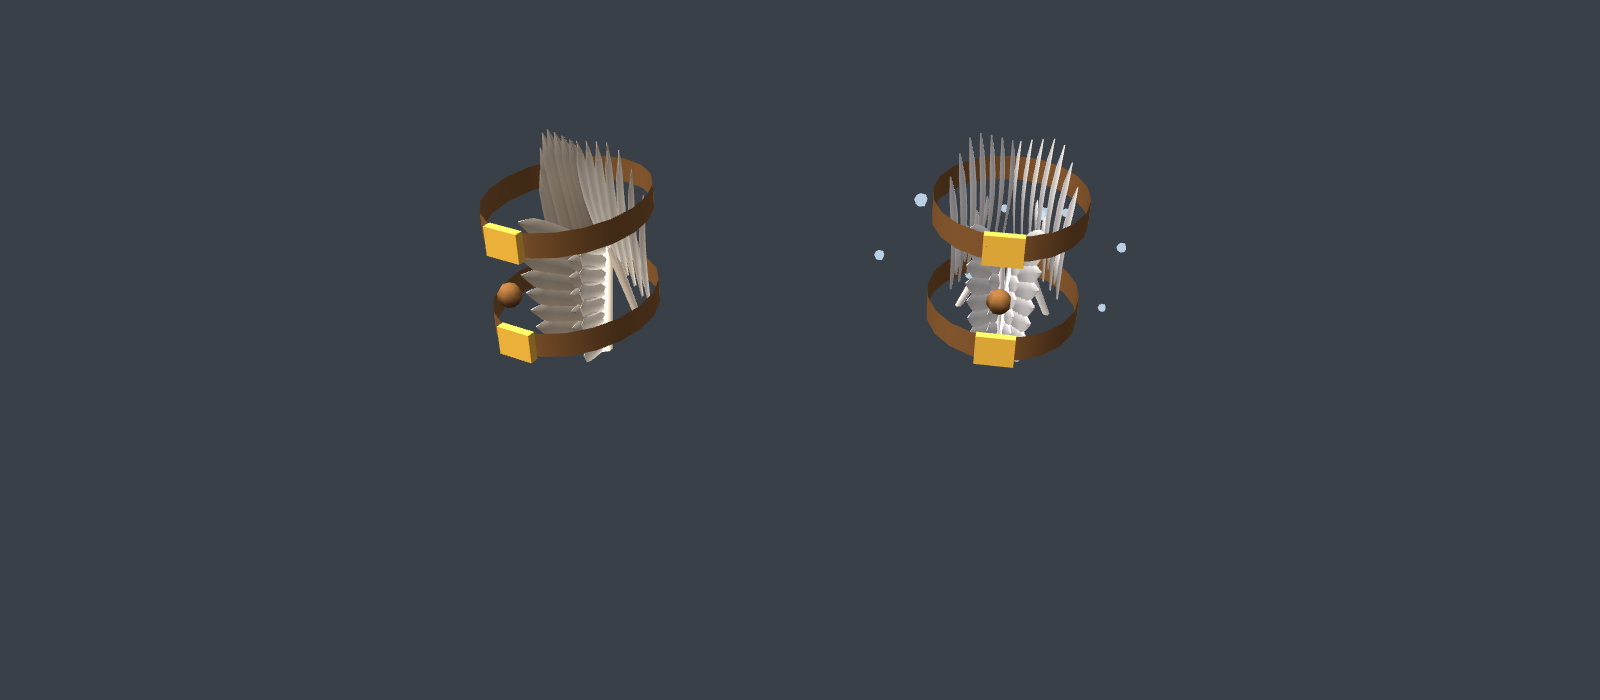
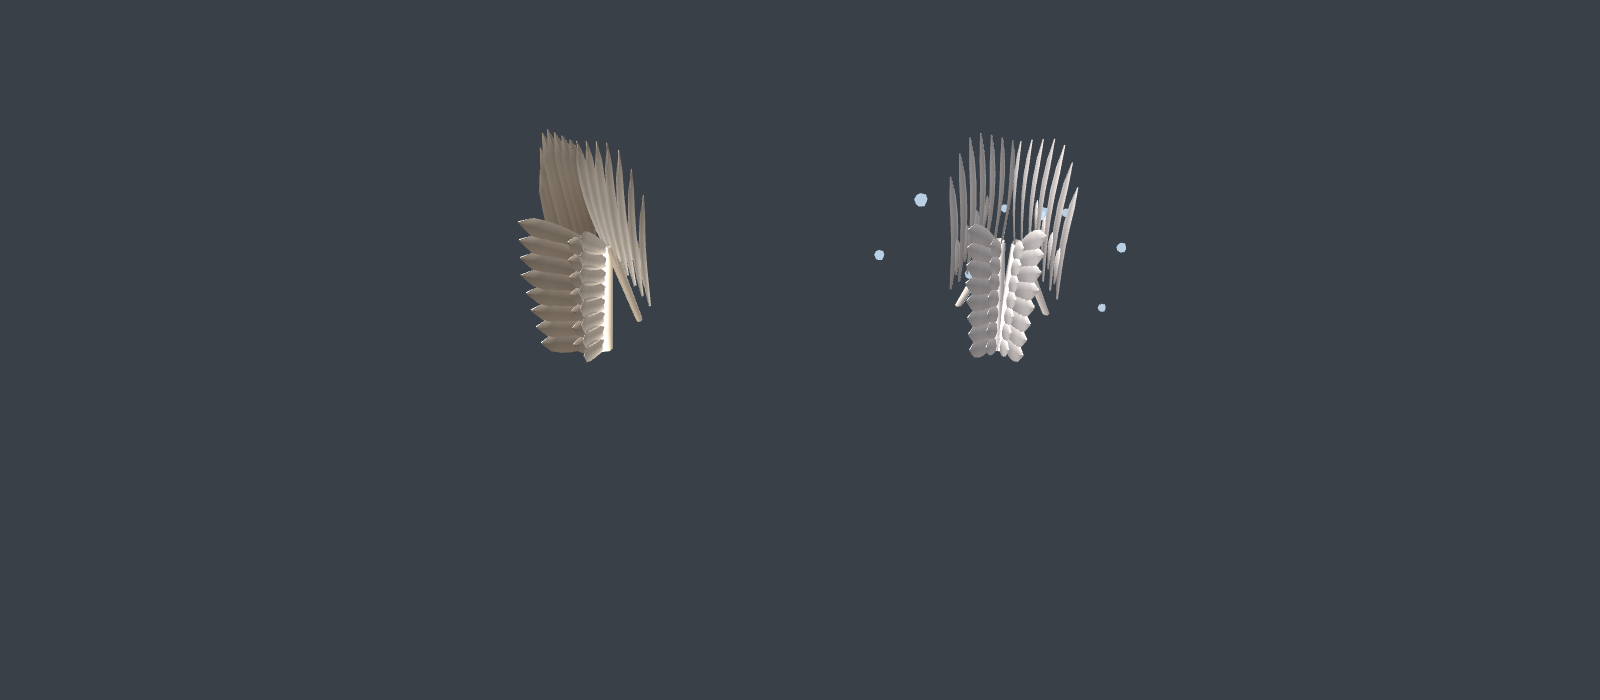
Крылья лебедя: просто сложены, без ремней; стенд башни с текстурами (превью)

Changed region(s): [[0.5625, 0.21, 0.6875, 0.54], [0.2812, 0.21, 0.4375, 0.51]]

diff --git a/src/entities/TowerLooks.js b/src/entities/TowerLooks.js
@@ -1,0 +1,98 @@
+/**
+ * TowerLooks.js — a PREVIEW (not connected): the wizard TOWER's people, TEXTURED (the author: «ты опять текстуры не используешь»): five uniforms for the students and three looks
+ * for the Head of the tower, on the hero's model. Same method as MageOutfits.js — rounded prisms wrapping the box limbs, woven wool, velvet, fur, leather and gold thread drawn on canvases.
+ * A tower needs ONE uniform type: pick one of the five; all the students then wear it (rank = stripes on the cuffs).
+ */
+
+import * as THREE from 'three';
+import { woolTex, velvetTex, leatherTex, threadTex } from './MageRobeLook.js';
+import { D, robe, hat, skyTex, furTex } from './MageOutfits.js';
+
+export const STUDENT_KINDS = ['u1', 'u2', 'u3', 'u4', 'u5'];
+export const MASTER_KINDS = ['m1', 'm2', 'm3'];
+export const TOWER_RU = {
+    u1: 'Академическая мантия', u2: 'Жилет и школьная роба', u3: 'Плащ-накидка', u4: 'Кафтан на пуговицах', u5: 'Рабочая роба с фартуком',
+    m1: 'Верховный маг', m2: 'Белый мудрец', m3: 'Звёздный владыка',
+};
+const GOLD = () => ({ color: 0xe0b43c, metalness: 0.8, roughness: 0.32 });
+
+const L = {
+    u1(d) { // an academic robe: a white yoke and collar, a house crest on the chest, a pointed blue hat
+        const r = robe(d, { color: 0x24408a, trim: 0xe8e8f4, motif: 'star', layers: 5, hem: -2.1, flare: 0.5, bell: 0.4 });
+        const T = d.ch.torso, white = d.lam(0xeeeef6, woolTex()), g = d.std(GOLD().color, { metalness: 0.8, roughness: 0.32 });
+        d.rb(T, white, 1.56, 0.4, 1.12, 0, 0.74, 0); d.rb(T, white, 0.62, 0.18, 0.5, 0, 0.98, -0.1);
+        d.rb(T, d.lam(0xeeeef6, woolTex()), 0.46, 0.52, 0.06, 0.3, 0.2, -0.52); d.rb(T, d.lam(0x24408a, velvetTex()), 0.34, 0.4, 0.07, 0.3, 0.2, -0.55); d.bx(T, g, 0.14, 0.14, 0.06, 0.3, 0.2, -0.6, 0, 0, Math.PI / 4);
+        hat(d, { color: 0x1c3070, trim: 0x14143a, motif: 'star', brim: 2.2, high: 2.4, bend: 0.4 });
+    },
+    u2(d) { // a school robe: white shirt, black velvet vest, red tie, pleated knee-length robe, an academic cap with a tassel
+        const r = robe(d, { color: 0x2a2e3a, trim: 0xb02a30, motif: 'star', layers: 4, hem: -1.9, flare: 0.35, bell: 0 });
+        const T = d.ch.torso, shirt = d.lam(0xf2efe6, woolTex()), vest = d.lam(0x16181e, velvetTex()), tie = d.lam(0xb02a30, velvetTex()), g = d.std(GOLD().color, { metalness: 0.8, roughness: 0.32 });
+        d.rb(T, shirt, 1.5, 1.2, 1.04, 0, 0.2, 0); d.rb(T, shirt, 0.9, 0.3, 0.8, 0, 0.84, 0); d.bx(T, shirt, 0.3, 0.2, 0.08, -0.22, 0.74, -0.52, 0.4, 0, 0.5); d.bx(T, shirt, 0.3, 0.2, 0.08, 0.22, 0.74, -0.52, 0.4, 0, -0.5);
+        for (const sx of [-1, 1]) d.rb(T, vest, 0.5, 1.15, 0.1, sx * 0.4, 0.1, -0.52);
+        d.bx(T, tie, 0.18, 1.0, 0.07, 0, 0.1, -0.58); d.bx(T, tie, 0.22, 0.2, 0.08, 0, 0.66, -0.56); for (const y of [0.36, 0.02, -0.28]) d.ball(T, g, 0.045, 0.5, y, -0.56);
+        const board = d.lam(0x1a1c24, woolTex()), H = d.ch.head;
+        d.rb(H, board, 1.42, 0.34, 1.42, 0, 0.82, 0); d.rb(H, board, 2.1, 0.1, 2.1, 0, 1.06, 0); d.ball(H, g, 0.1, 0, 1.14, 0); d.bx(H, tie, 0.06, 0.6, 0.06, 0.9, 0.78, 0); d.ball(H, tie, 0.1, 0.9, 0.46, 0);
+    },
+    u3(d) { // a capelet over a tunic: a green wool cape to the elbows with a leaf trim, a wooden clasp, a green pointed hat
+        const r = robe(d, { color: 0x6a4a2a, trim: 0x2a4a2a, motif: 'leaf', layers: 5, hem: -2.0, flare: 0.45, bell: 0.2 });
+        const T = d.ch.torso, cape = d.lam(0x3f6b3a, woolTex()), th = d.lam(0xffffff, threadTex('leaf'), { alphaTest: 0.4, transparent: true }), wood = d.lam(0x8a6a3a, leatherTex());
+        d.rb(T, cape, 1.9, 0.8, 1.3, 0, 0.5, 0.02); d.rb(T, d.lam(0x2a4a2a, velvetTex()), 1.94, 0.14, 1.34, 0, 0.12, 0.02);
+        d.bx(T, th, 1.9, 0.14, 0.02, 0, 0.12, -0.67); d.ball(T, wood, 0.12, 0, 0.8, -0.62); d.rb(T, wood, 0.1, 0.5, 0.1, 0.5, -0.84, -0.52, 0, 0, 0.1);
+        hat(d, { color: 0x2f5a2f, trim: 0x2a4a2a, motif: 'leaf', brim: 2.1, high: 2.3, bend: 0.5 });
+    },
+    u4(d) { // a double-breasted velvet coat: two rows of gold buttons, a stand collar, gold shoulder tabs, a soft beret
+        const r = robe(d, { color: 0x4a2a7a, trim: 0xe0b43c, motif: 'star', layers: 5, hem: -2.15, flare: 0.4, bell: 0.2, map: velvetTex() });
+        const T = d.ch.torso, g = d.std(GOLD().color, { metalness: 0.8, roughness: 0.32 }), vel = d.lam(0x3a1f66, velvetTex());
+        d.rb(T, vel, 1.0, 0.36, 0.9, 0, 0.84, 0); for (const sx of [-1, 1]) for (const y of [0.5, 0.2, -0.1, -0.4]) d.ball(T, g, 0.06, sx * 0.24, y, -0.54);
+        d.bx(T, d.lam(0x2a1450, velvetTex()), 0.06, 1.5, 0.04, 0, 0.04, -0.53); for (const sx of [-1, 1]) d.rb(T, g, 0.56, 0.1, 0.34, sx * 0.62, 0.78, 0);
+        const H = d.ch.head, m = d.lam(0x3a1f66, velvetTex()); d.rb(H, m, 1.56, 0.22, 1.56, 0, 0.8, 0); d.rb(H, d.lam(0x4a2a7a, velvetTex()), 1.4, 0.24, 1.4, 0.12, 1.0, 0); d.rb(H, m, 0.14, 0.2, 0.14, 0.12, 1.18, 0); d.bx(H, g, 0.16, 0.16, 0.06, -0.5, 0.84, -0.8, 0, 0, Math.PI / 4);
+    },
+    u5(d) { // a work robe: rolled sleeves (bare forearms), a leather apron with pockets and tools, a soft floppy hat
+        const r = robe(d, { color: 0x7a6a52, trim: 0x4a3a2a, motif: 'leaf', layers: 4, hem: -1.95, flare: 0.4, bell: 0 });
+        const T = d.ch.torso, lea = d.lam(0x6a4a2a, leatherTex()), lea2 = d.lam(0x5a3a1e, leatherTex()), g = d.std(GOLD().color, { metalness: 0.8, roughness: 0.32 });
+        d.rb(T, lea, 1.0, 2.1, 0.08, 0, -0.5, -0.58); for (const sx of [-1, 1]) d.rb(T, lea, 0.14, 0.7, 0.06, sx * 0.34, 0.5, -0.56); d.rb(T, lea2, 0.56, 0.4, 0.1, 0, -0.4, -0.64);
+        d.bx(T, g, 0.07, 0.5, 0.05, 0.16, -0.3, -0.72); d.bx(T, d.lam(0x2a2a6a, woolTex()), 0.12, 0.12, 0.05, -0.14, -0.34, -0.7); d.bx(T, d.lam(0x2a2a6a, woolTex()), 0.2, 0.2, 0.04, 0.5, 0.4, -0.52, 0, 0, 0.3);
+        const H = d.ch.head, m = d.lam(0x5a4a38, woolTex()); d.rb(H, m, 1.9, 0.08, 1.9, 0, 0.66, 0); d.rb(H, m, 1.36, 0.36, 1.36, 0, 0.88, 0); d.rb(H, m, 1.1, 0.3, 1.1, 0.1, 1.16, 0.06); d.rb(H, m, 0.8, 0.26, 0.8, 0.3, 1.4, 0.14); d.rb(H, lea2, 1.4, 0.12, 1.4, 0, 0.78, 0);
+    },
+    m1(d) { // the High Mage: a deep-purple robe, an ermine mantle, a gold-embroidered front, a long cape, a chain with a medallion, a tall star hat
+        const r = robe(d, { color: 0x3a1d5e, trim: 0x1a1240, motif: 'star', layers: 6, hem: -2.35, flare: 0.8, bell: 1 });
+        const T = d.ch.torso, fur = d.lam(0xffffff, furTex()), g = d.std(GOLD().color, { metalness: 0.8, roughness: 0.32 }), cape = d.lam(0x2a1450, velvetTex()), th = d.lam(0xffffff, threadTex('star'), { alphaTest: 0.4, transparent: true });
+        d.rb(T, cape, 1.5, 2.9, 0.1, 0, -0.9, 0.62, 0.04); d.rb(T, g, 1.54, 0.07, 0.14, 0, -2.3, 0.64);
+        d.rb(T, fur, 2.0, 0.5, 1.3, 0, 0.76, 0.02); for (let q = -4; q <= 4; q++) d.bx(T, d.lam(0x111111), 0.1, 0.2, 0.04, q * 0.2, 0.6, -0.66);
+        d.bx(T, d.lam(0x2a1450, velvetTex()), 0.4, 2.3, 0.05, 0, -0.5, -0.64); d.bx(T, th, 0.4, 2.3, 0.02, 0, -0.5, -0.67);
+        d.bx(T, g, 0.34, 0.34, 0.07, 0, 0.1, -0.7, 0, 0, Math.PI / 4); d.bx(T, d.std(0xd02050, { roughness: 0.2, emissive: 0xc01040, emissiveIntensity: 0.7 }), 0.16, 0.16, 0.08, 0, 0.1, -0.74, 0, 0, Math.PI / 4);
+        hat(d, { color: 0x2a1450, trim: 0x1a1240, motif: 'star', brim: 2.5, high: 3.0, bend: 0.5 });
+        const beard = d.lam(0xece8e0, woolTex()); for (let i = 0; i < 4; i++) d.rb(d.ch.head, beard, 0.9 - i * 0.16, 0.34, 0.3, 0, -0.5 - i * 0.28, -0.6 - i * 0.04);
+    },
+    m2(d) { // the White Sage: white wool and gold velvet, a tall gold collar behind the head, a sun on the sash, a gold circlet on a white hood
+        const r = robe(d, { color: 0xeee8d8, trim: 0xe0b43c, motif: 'star', layers: 6, hem: -2.35, flare: 0.8, bell: 1 });
+        const T = d.ch.torso, gold = d.lam(0xe0b43c, velvetTex()), g = d.std(GOLD().color, { metalness: 0.8, roughness: 0.32 }), wool = d.lam(0xf4f0e4, woolTex());
+        d.rb(T, gold, 1.56, 0.4, 1.1, 0, 0.76, 0); d.rb(T, gold, 1.1, 1.3, 0.14, 0, 1.3, 0.5); d.rb(T, wool, 0.8, 0.9, 0.12, 0, 1.4, 0.58);
+        d.bx(T, gold, 0.5, 2.3, 0.05, 0, -0.5, -0.64); d.bx(T, wool, 0.3, 2.3, 0.06, 0, -0.5, -0.68); d.put(T, geo_disk(), g, 0.4, 0.06, 0.4, 0, 0.1, -0.72, Math.PI / 2);
+        d.rb(T, wool, 1.5, 2.6, 0.1, 0, -0.8, 0.6, 0.03);
+        const H = d.ch.head; d.rb(H, wool, 1.58, 1.5, 0.2, 0, 0.1, 0.76); for (const sx of [-1, 1]) d.rb(H, wool, 0.2, 1.4, 1.6, sx * 0.78, 0.1, 0.06); d.rb(H, wool, 1.6, 0.3, 1.6, 0, 0.84, 0.04);
+        d.rb(H, g, 1.5, 0.12, 1.5, 0, 0.7, -0.02); for (let i = 0; i < 5; i++) d.bx(H, g, 0.14, 0.36, 0.14, -0.5 + i * 0.25, 0.94, -0.7);
+        const beard = d.lam(0xf4f0e8, woolTex()); for (let i = 0; i < 4; i++) d.rb(H, beard, 0.9 - i * 0.16, 0.34, 0.3, 0, -0.5 - i * 0.28, -0.6 - i * 0.04);
+    },
+    m3(d) { // the Star Lord: a midnight robe sprinkled with stars, a tall pointed collar, a crescent crown, a flowing cape
+        const r = robe(d, { color: 0x1c2064, trim: 0x14143a, motif: 'star', layers: 6, hem: -2.35, flare: 0.85, bell: 1, map: skyTex() });
+        const T = d.ch.torso, g = d.std(GOLD().color, { metalness: 0.8, roughness: 0.32 }), night = d.lam(0x14184a, skyTex()), cape = d.lam(0x0e1038, skyTex());
+        d.rb(T, cape, 1.6, 3.0, 0.1, 0, -0.9, 0.62, 0.04); d.rb(T, night, 1.96, 0.42, 1.3, 0, 0.76, 0.02);
+        for (const sx of [-1, 1]) d.rb(T, night, 0.44, 1.1, 0.16, sx * 0.64, 1.26, 0.5, 0, 0, sx * -0.2);
+        d.put(T, geo_arc(), g, 0.5, 0.5, 0.9, 0.06, 0.14, -0.7, 0, 0, Math.PI * 0.6);
+        const H = d.ch.head, m = d.lam(0x1c2064, skyTex());
+        d.rb(H, m, 1.46, 0.4, 1.46, 0, 0.86, 0); d.rb(H, m, 1.1, 0.3, 1.1, 0, 1.2, 0.04); d.rb(H, m, 0.8, 0.3, 0.8, 0, 1.5, 0.1); d.rb(H, g, 1.5, 0.1, 1.5, 0, 0.7, 0);
+        d.put(H, geo_arc(), g, 1.0, 1.0, 1.4, 0, 2.05, 0, 0, 0, Math.PI * 0.55); d.bx(H, g, 0.2, 0.2, 0.2, 0.0, 2.45, 0.04, 0, 0, Math.PI / 4);
+        const beard = d.lam(0xece8e0, woolTex()); for (let i = 0; i < 4; i++) d.rb(H, beard, 0.9 - i * 0.16, 0.34, 0.3, 0, -0.5 - i * 0.28, -0.6 - i * 0.04);
+    },
+};
+const _g = {};
+const geo_disk = () => _g.disk || (_g.disk = new THREE.CylinderGeometry(0.5, 0.5, 1, 14));
+const geo_arc = () => _g.arc || (_g.arc = new THREE.TorusGeometry(0.5, 0.09, 8, 24, Math.PI * 1.25));
+
+/** Dress a hero in a tower look (a student's uniform 'u1'…'u5' or the Master's 'm1'…'m3'). */
+export function dressTower(ch, kind) {
+    ch._armorParts = [];
+    L[kind](new D(ch));
+    return ch;
+}

diff --git a/src/game/SwanModel.js b/src/game/SwanModel.js
@@ -174,8 +174,8 @@ export function swanWingsItemModel(magic = false) {
     const g = new THREE.Group();
     g.name = magic ? 'magicSwanWings' : 'swanWings';
     const feather = magic ? K.wingMat(0xeef3ff, 0x9fc8ff) : K.wingMat(0xf9f8f4);
-    // ONE bundle (the author 06.11: «выглядит ужасно, состоит из двух элементов»): the two wings lie back to back, roots and tips together (each is
-    // 0.08 thick along x, 0.36 long along y), bound with two leather bands round the middle with brass buckles and a knot — one object.
+    // ONE pair, just folded (the author 06.11: «просто сложены, и всё красиво» — no hoop, no straps): the two wings lie back to back, roots and tips together
+    // (each is 0.08 thick along x, 0.36 long along y), leaning in a little, like closed hands.
     for (const s of [1, -1]) {
         const w = new THREE.Group();
         w.scale.set(0.42 * s, 0.42, 0.42);
@@ -186,14 +186,6 @@ export function swanWingsItemModel(magic = false) {
         w.add(m);
         g.add(w);
     }
-    const strap = mat('swanStrap', () => new THREE.MeshLambertMaterial({ color: 0x6a4a2a, side: THREE.DoubleSide })), brass = K.lam(0xc9a23a);
-    const band = K.cached('swanBand', () => new THREE.CylinderGeometry(1, 1, 0.034, 20, 1, true));
-    const buckle = K.cached('swanBuckle', () => new THREE.BoxGeometry(0.05, 0.04, 0.012));
-    for (const y of [0.1, 0.24]) { // (two bands round the bundle: it is about 0.16 wide and 0.2 deep)
-        const b1 = new THREE.Mesh(band, strap); b1.position.set(0, y, 0.04); b1.scale.set(0.1, 1, 0.125); g.add(b1);
-        const bk = new THREE.Mesh(buckle, brass); bk.position.set(0, y, 0.168); g.add(bk);
-    }
-    const knot = new THREE.Mesh(K.cached('swanKnot', () => new THREE.SphereGeometry(0.016, 7, 5)), K.lam(0x6a4a2a)); knot.position.set(0.0, 0.17, 0.17); g.add(knot);
     if (magic) {
         const mote = mat('mote', () => new THREE.MeshBasicMaterial({ color: 0xcfe9ff, transparent: true, opacity: 0.85, depthWrite: false }));
         const r = K.rng(77);

diff --git a/src/entities/MageOutfits.js b/src/entities/MageOutfits.js
@@ -194,3 +194,6 @@ export function dressMage(ch, kind) {
     OUTFITS[kind](new D(ch));
     return ch;
 }
+
+// (shared with TowerLooks.js: the builder, the robe, the hat and the textures)
+export { D, robe, hat, skyTex, furTex, barkTex, RBOX, tint, lite };
